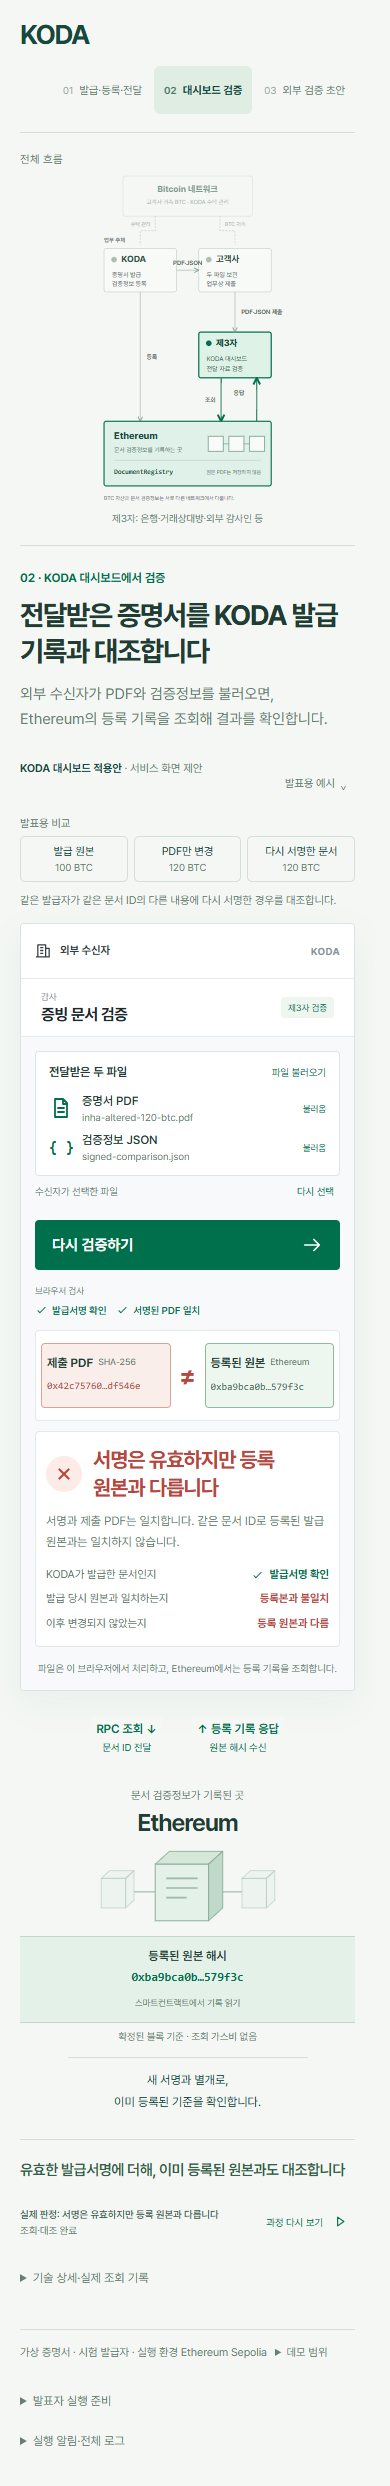
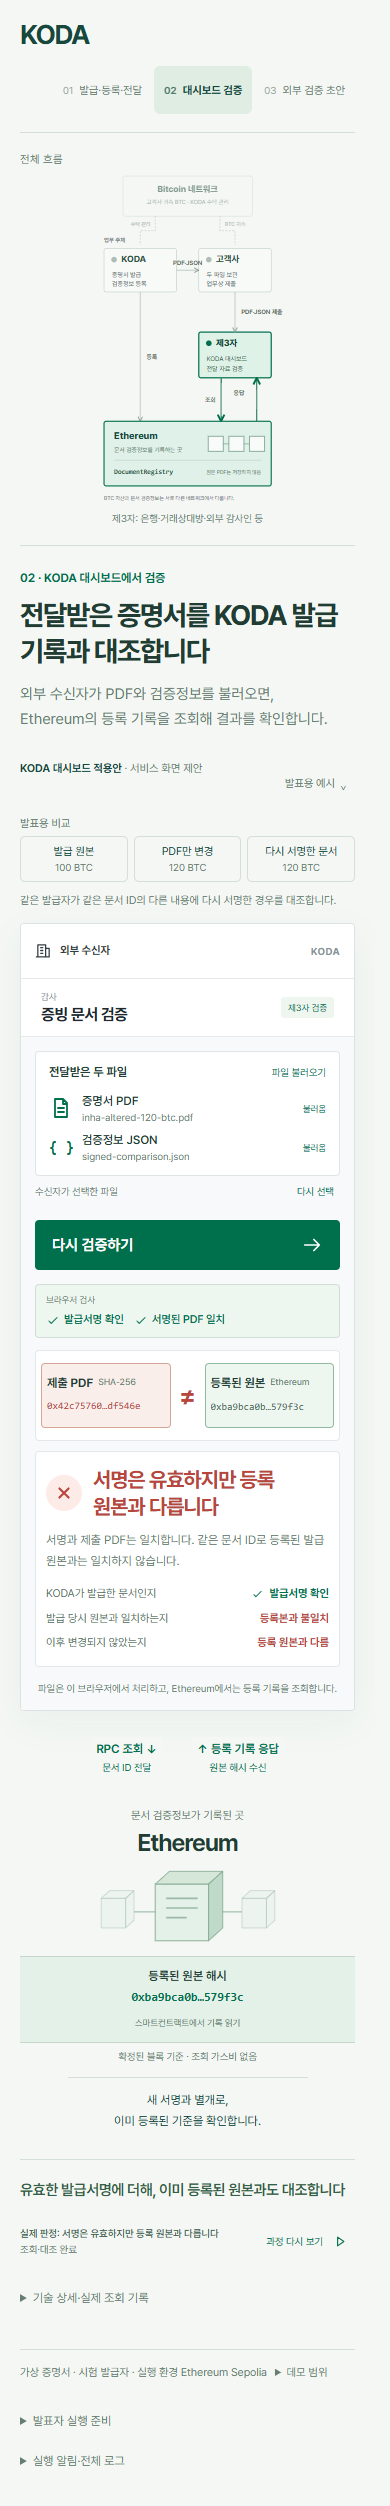
docs: preserve published signed-comparison evidence

diff --git a/docs/portfolio/2026-11-07-signed-comparison/README.md b/docs/portfolio/2026-11-07-signed-comparison/README.md
@@ -1,0 +1,27 @@
+# 재서명 비교 사례 · 실제 승인과 구현 기록
+
+## 사용자의 판단과 기여
+
+신기호는 팀장 발표 흐름을 살리면서도, 기존 서비스 목적과 두 장면의 구성이 개별 피드백 때문에 흔들리지 않아야 한다고 요구했다. 이에 02의 같은 제3자 검증 화면에 비교 자료 선택만 추가했다. 새 문서 서명은 신기호가 MetaMask에서 직접 승인했다.
+
+## 실제로 실행한 것
+
+- 기존 100 BTC 등록 원본과 같은 문서 ID·발급 기재시각으로 120 BTC 비교 PDF의 해시를 다시 서명했다. 기재시각을 유지하는 비교 가정이며 새 서명이 그 시각에 만들어졌음을 뜻하지 않는다.
+- 새 등록 거래는 보내지 않았다. 실제 EIP-712 서명·PDF 해시를 로컬에서 확인했다.
+- 기존 등록의 거래 입력·영수증·이벤트·정식 블록·finality·발급자·저장값을 읽기 전용으로 검증했다.
+- 실제 결과: 새 서명 유효 / PDF와 새 서명 일치 / Ethereum 등록 원본과 불일치.
+
+`signed-comparison.json`은 사용자 승인 후 내려받은 자료를 검증해 보존한 공개 시험 서명이다. 개인키를 포함하지 않는다. `verification.json`은 실제 관측 시점과 검증 결과·trace이며, 웹의 검증 버튼은 새로 조회한다.
+
+## 발표 흐름
+
+01 발급·등록·고객사 전달 → 02 정상 원본 확인 → 필요하면 PDF만 변경한 경우 → ‘다시 서명한 문서’ 선택 후 같은 검증 버튼. 두 로컬 검사 통과와 공개 등록 원본 불일치가 동일 화면에 남는다. 지갑 승인은 준비 때만 필요하다.
+
+이 사례가 보여주는 것은 유효한 서명과 이미 등록된 발급 기준의 차이다. 일반 전자서명으로도 파일 변경 탐지가 가능하며, 블록체인의 추가 가치는 발급기관 내부 DB와 분리된 공통 조회 기준이다. 실제 잔고·공식 법인 신원·현재 유효성까지 증명한다는 주장은 하지 않는다.
+
+## 보존 위치
+
+- [구현 소스](https://github.com/KODA-INHA-2026/koda-project/commit/7d543a2ee778011381631c268c45a9e3d14acbe0)
+- [02 공유 화면](https://koda-inha-2026.github.io/koda-project/sepolia-20261106/?view=verify&revision=7d543a2)
+- [설계와 검수 기록](../../design/signed-comparison-2026-11-07.md)
+- 실제 RPC·화면 증거와 합성 실패/대기 시험 증거는 구분해서 보관한다.

diff --git a/docs/portfolio/2026-11-06-sepolia/PUBLICATION.md b/docs/portfolio/2026-11-06-sepolia/PUBLICATION.md
@@ -1,5 +1,14 @@
 # 1차 피드백 공유 — 2026-11-06
 
+## 최신: 02의 실제 재서명 비교 사례 (2026-11-07)
+
+- 소스 `7d543a2ee778011381631c268c45a9e3d14acbe0`, Pages `4019dd13731841203a83f2993fdc6f26d46c2864`.
+- [02 공유 화면](https://koda-inha-2026.github.io/koda-project/sepolia-20261106/?view=verify&revision=7d543a2), [게시 실행](https://github.com/KODA-INHA-2026/koda-project/actions/runs/42249102827) 성공.
+- 같은 화면에 원본 / PDF만 변경 / 다시 서명한 문서 선택을 추가했다. 실제 시험 발급자가 새 메시지 서명을 승인했으며, 새 등록 거래는 없다. 제3자 시연에는 지갑 연결이 필요하지 않다.
+- 새 서명·PDF 일치와 기존 확정 등록 원본 불일치를 실제 RPC로 확인했다. 기존 등록 원본의 거래·영수증·이벤트·finality·발급자 확인을 유지하며 01·03과 전체 업무 주체·경로를 바꾸지 않았다.
+- 전체 54개 회귀 및 이후 trace 문구 회귀를 포함한 관련 11개 검사, TypeScript·공유 빌드 통과. 기존 번들 크기 경고는 유지된다.
+- [설계·기여](../../design/signed-comparison-2026-11-07.md), [사용자 승인과 실제 검증](../2026-11-07-signed-comparison/verification.json), [공개 브라우저 확인](../../design/signed-comparison-2026-11-07/public-check.json).
+
 ## 최신: 인하 기본 자료와 수탁정보 연결
 
 - 소스 `74bca57b4f24f5f01abdcc4deef0a35c8523a4f0`, Pages `59369b16d9385bcabef84c38e421c2b0ff28bfcd`. [공유 링크](https://koda-inha-2026.github.io/koda-project/sepolia-20261106/?revision=74bca57), [게시 실행](https://github.com/KODA-INHA-2026/koda-project/actions/runs/42209157949) 성공.

diff --git a/docs/design/signed-comparison-2026-11-07.md b/docs/design/signed-comparison-2026-11-07.md
@@ -37,6 +37,8 @@
 
 기록: [실제 서명과 검증](../portfolio/2026-11-07-signed-comparison/verification.json), [브라우저 관측](signed-comparison-2026-11-07/browser-check.json).
 
+최종 검토에서 등록 원본용 trace와 새 서명용 trace의 문구를 구분하고, 비교정보 내려받기 전에도 로컬 해시·서명을 재검사하도록 보강했다. 해당 회귀를 포함한 관련 11개 검사가 통과했다. 공개 Pages 소스 `7d543a2`, 배포 `4019dd1`, 게시 실행 `42249102827`은 성공했다. [공개 HTTPS 검수](signed-comparison-2026-11-07/public-check.json)에서도 세 사례·각 파일 따로 불러오기·RPC 실패·모바일·01/03 회귀를 확인했다. 파일을 따로 선택하는 자동 검사에서는 첫 PDF 읽기 완료를 기다린 뒤 JSON을 선택하도록 검사 순서를 맞췄다.
+
 ## 발표 순서
 
 01의 발급·등록·고객사 전달 후 02에서 받은 파일을 검증한다. 정상 확인을 먼저 보여주고, 필요하면 ‘PDF만 변경’으로 파일 무결성을 설명한다. 이후 ‘다시 서명한 문서’를 선택해 같은 검증 버튼을 누른다. 브라우저의 서명·PDF 검사 두 개가 통과하고, Ethereum에서 돌아온 등록 해시와 다른 결과를 설명한다. 결과 화면은 그대로 유지하며 새 장면이나 새로운 업무 주체를 추가하지 않는다.
